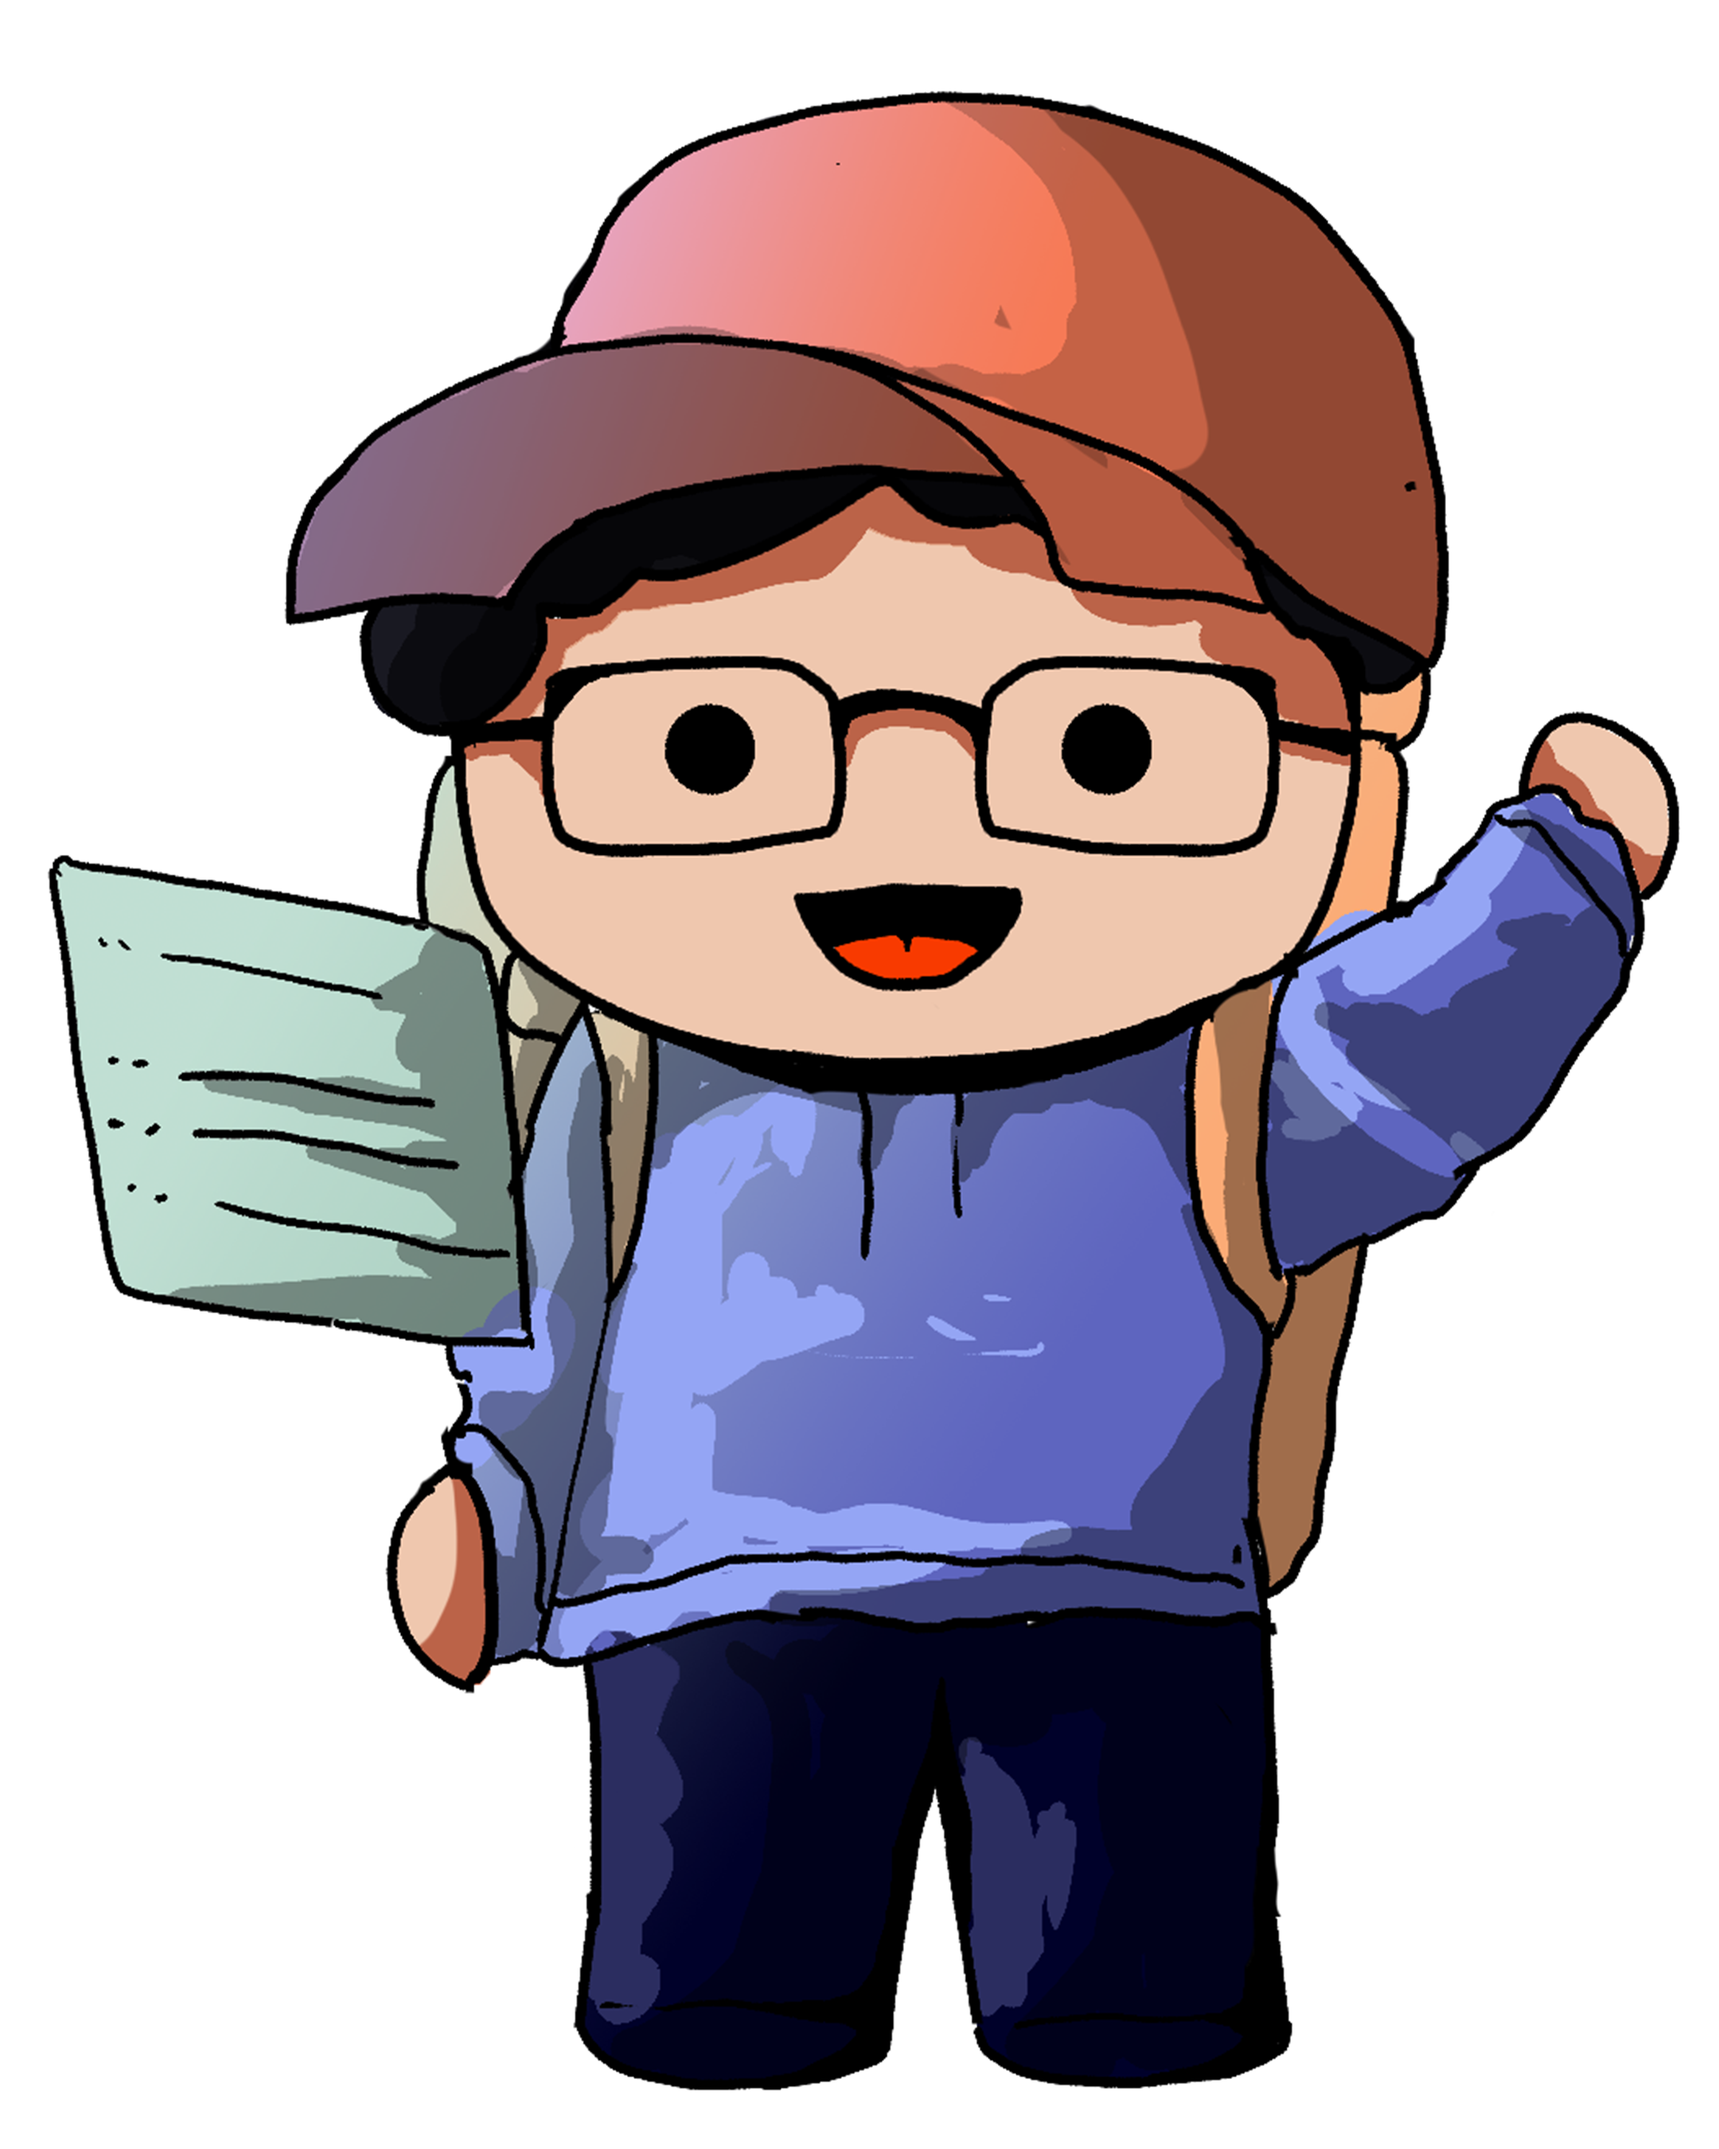
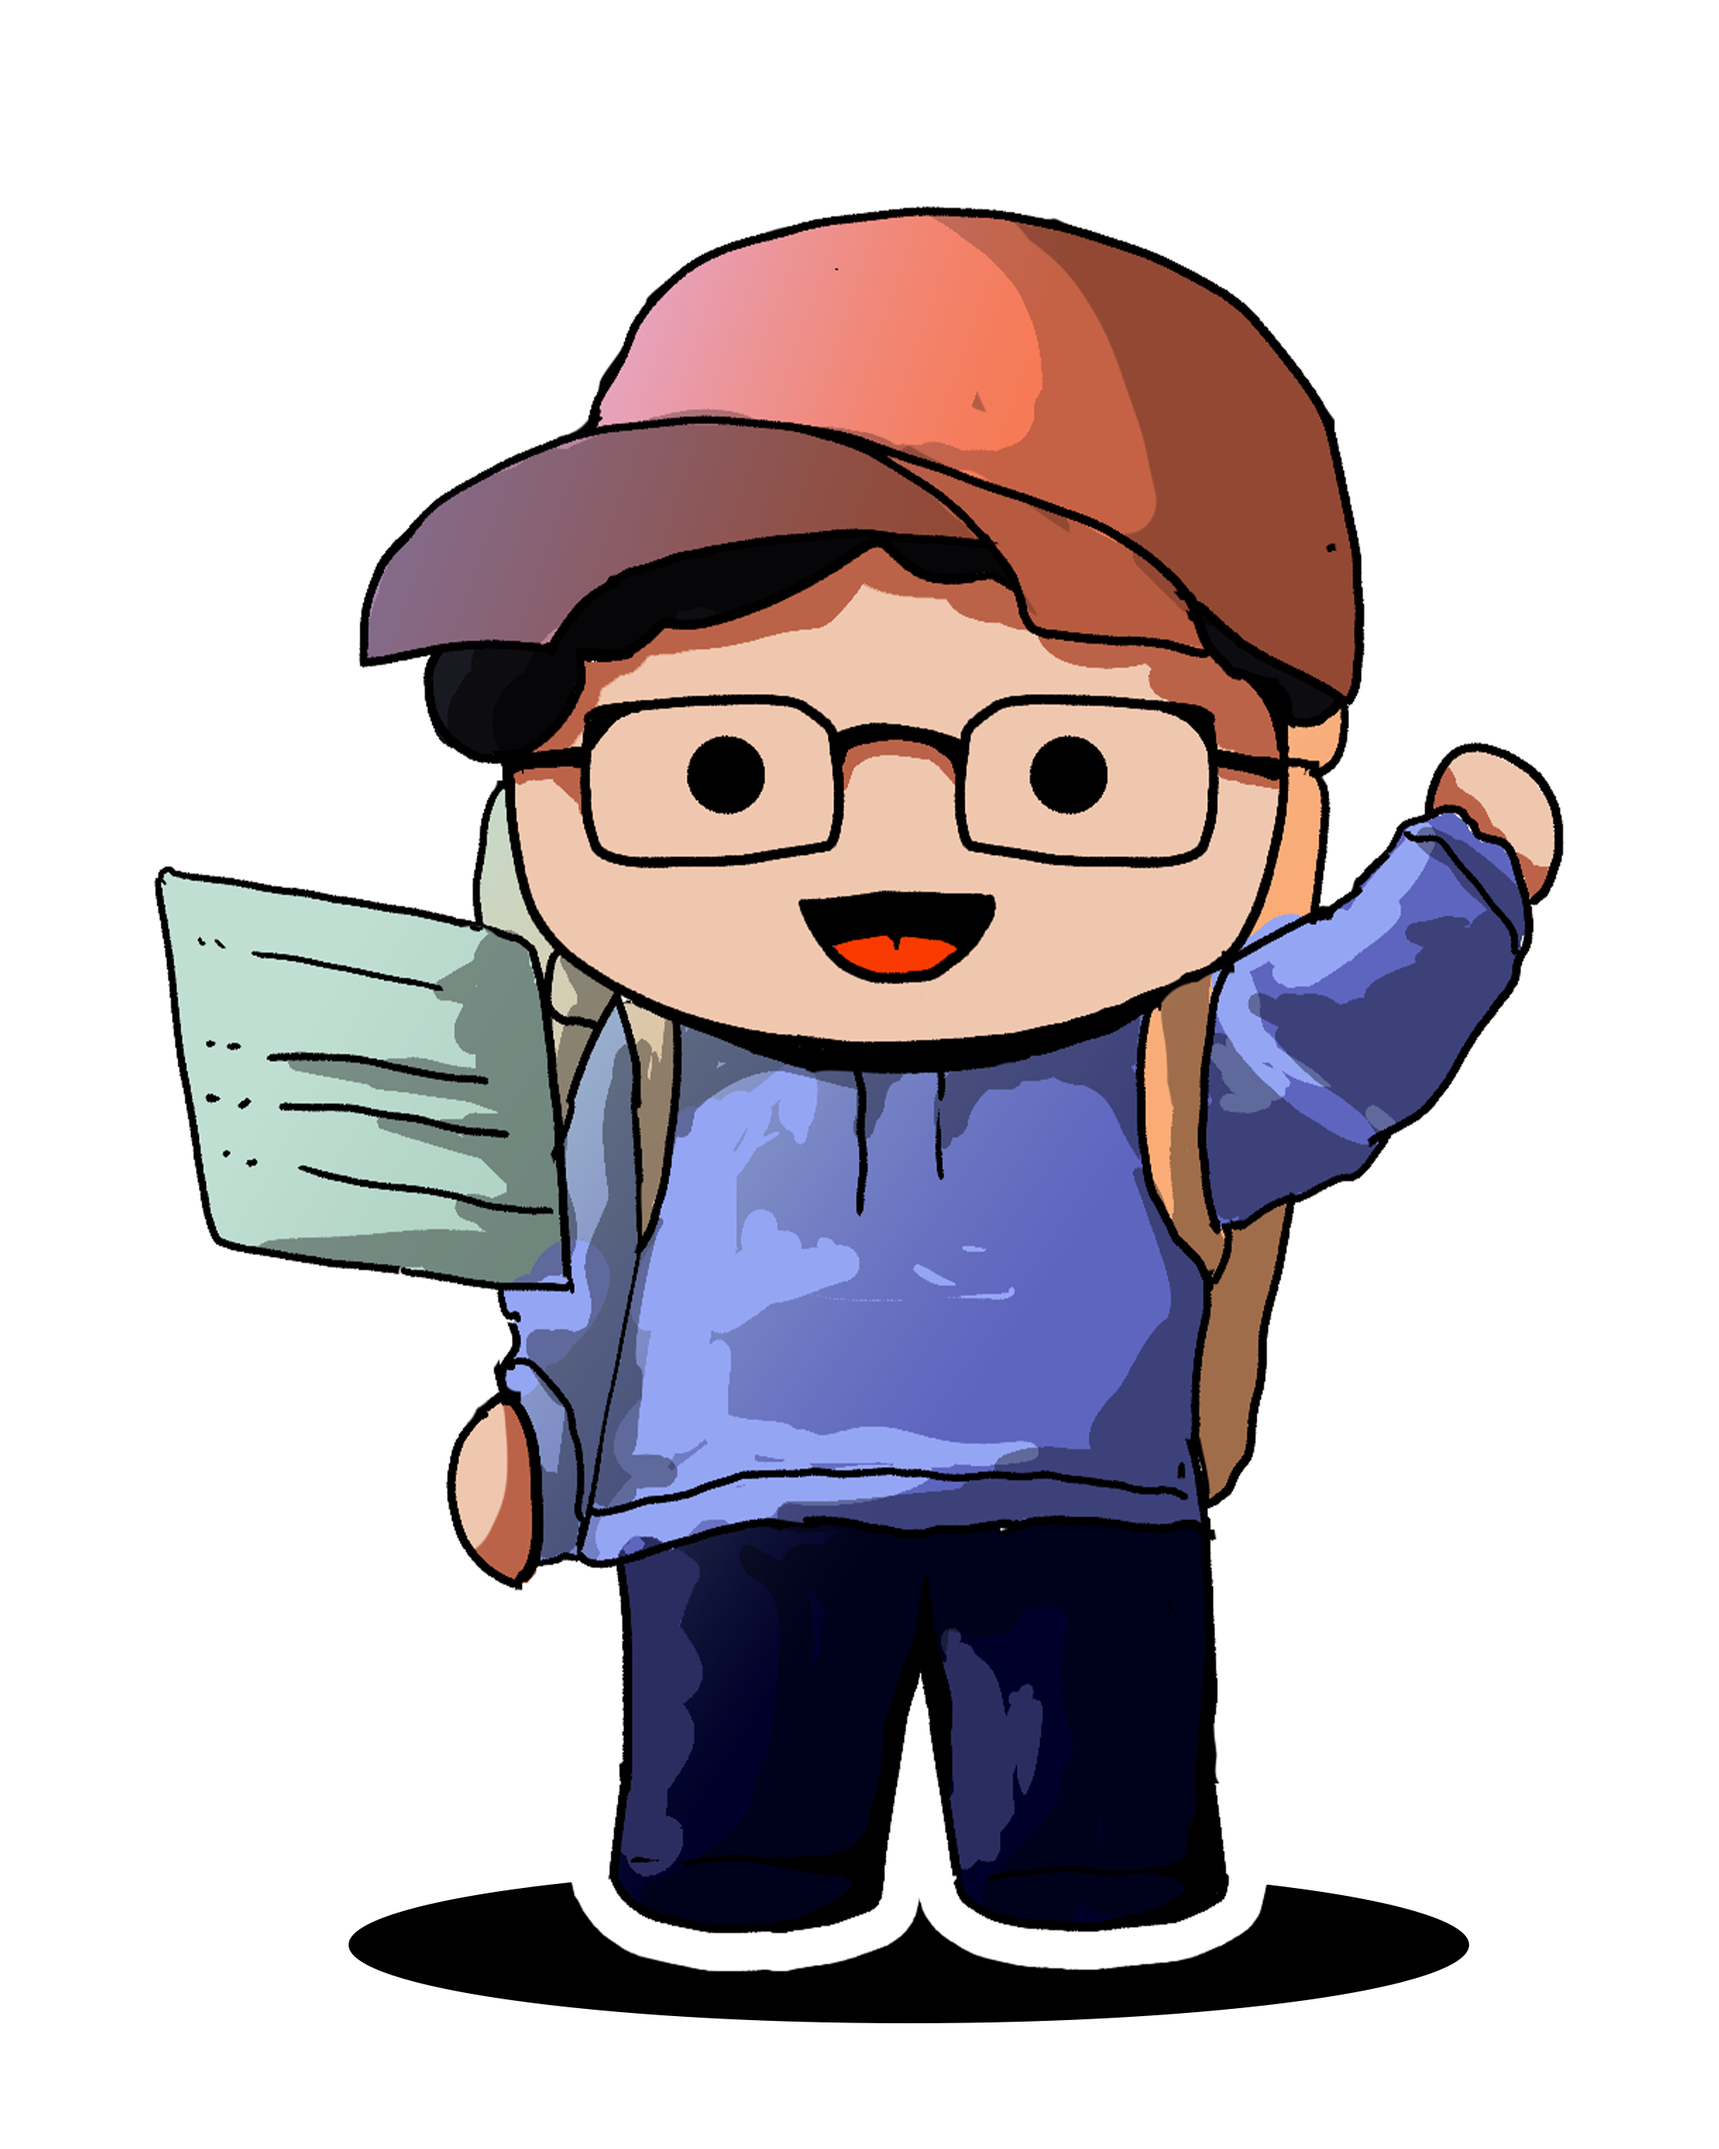
set responsive

diff --git a/src/components/views/HomeSection/HomeSection.tsx b/src/components/views/HomeSection/HomeSection.tsx
@@ -1,3 +1,4 @@
+import useScreenSize from "@/hooks/useScreenSize";
 import { cn } from "@/utils/cn";
 import pic1 from "@public/images/illustrations/justin1.png";
 import pic2 from "@public/images/illustrations/justin2.png";
@@ -9,45 +10,52 @@ const londrina = Londrina_Solid({
   weight: ["100", "300", "400", "900"],
   subsets: ["latin"],
 });
-console.log(londrina);
 
 const HomeSection = () => {
+  const { width } = useScreenSize();
+  const isMobile = width < 640;
+
+  const getImageSize = () => {
+    if (width < 1024) return 200;
+    return 275;
+  };
+  const imageSize = getImageSize();
   return (
     <section className="w-full h-screen">
       <div className="py-24 h-full max-w-3xl mx-auto">
         <div className="relative w-full">
           <h1
             className={cn(
-              "text-center uppercase text-6xl lg:text-[13rem] tracking-tight leading-[0.8]",
+              "text-center uppercase text-9xl lg:text-[13rem] tracking-[-0.03em] leading-[0.74]",
               londrina.className
             )}
           >
             Justine Hezekiel
           </h1>
-          <div className="absolute -top-[13%] translate-y-full left-16 w-fit hover:z-20 hover:scale-105 transition-all ease-in-out">
+          <div className="absolute -bottom-1/2 translate-y-1/3 left-14 w-fit hover:z-20 hover:scale-105 transition-all ease-in-out">
             <Image
               src={pic2}
               alt="justin-2"
-              width={250}
-              height={300}
+              width={imageSize}
+              height={325}
               className="object-cover cursor-pointer"
             />
           </div>
-          <div className="w-fit absolute top-[90%] left-1/2 -translate-x-1/2 z-10 hover:z-20 hover:scale-105 transition-all ease-in-out">
+          <div className="w-fit absolute -bottom-1/2 translate-y-1/2 left-1/2 -translate-x-1/2 z-10 hover:z-20 hover:scale-105 transition-all ease-in-out">
             <Image
               src={pic1}
               alt="justin-1"
-              width={250}
-              height={300}
+              width={imageSize}
+              height={325}
               className="object-cover cursor-pointer"
             />
           </div>
-          <div className="absolute right-8 top-3/4 w-fit hover:z-20 hover:scale-105 transition-all ease-in-out">
+          <div className="absolute right-14 -bottom-[30%] translate-y-1/2 w-fit hover:z-20 hover:scale-105 transition-all ease-in-out">
             <Image
               src={pic3}
               alt="justin-3"
-              width={300}
-              height={300}
+              width={imageSize}
+              height={325}
               className="object-cover cursor-pointer"
             />
           </div>

diff --git a/src/hooks/useScreenSize.tsx b/src/hooks/useScreenSize.tsx
@@ -1,0 +1,29 @@
+// hooks/useScreenSize.js
+import { useEffect, useState } from "react";
+
+const useScreenSize = () => {
+  const [screenSize, setScreenSize] = useState({
+    width: typeof window !== "undefined" ? window.innerWidth : 0,
+    height: typeof window !== "undefined" ? window.innerHeight : 0,
+  });
+
+  useEffect(() => {
+    const handleResize = () => {
+      setScreenSize({
+        width: window.innerWidth,
+        height: window.innerHeight,
+      });
+    };
+
+    // Add event listener
+    window.addEventListener("resize", handleResize);
+
+    handleResize();
+
+    return () => window.removeEventListener("resize", handleResize);
+  }, []);
+
+  return screenSize;
+};
+
+export default useScreenSize;
